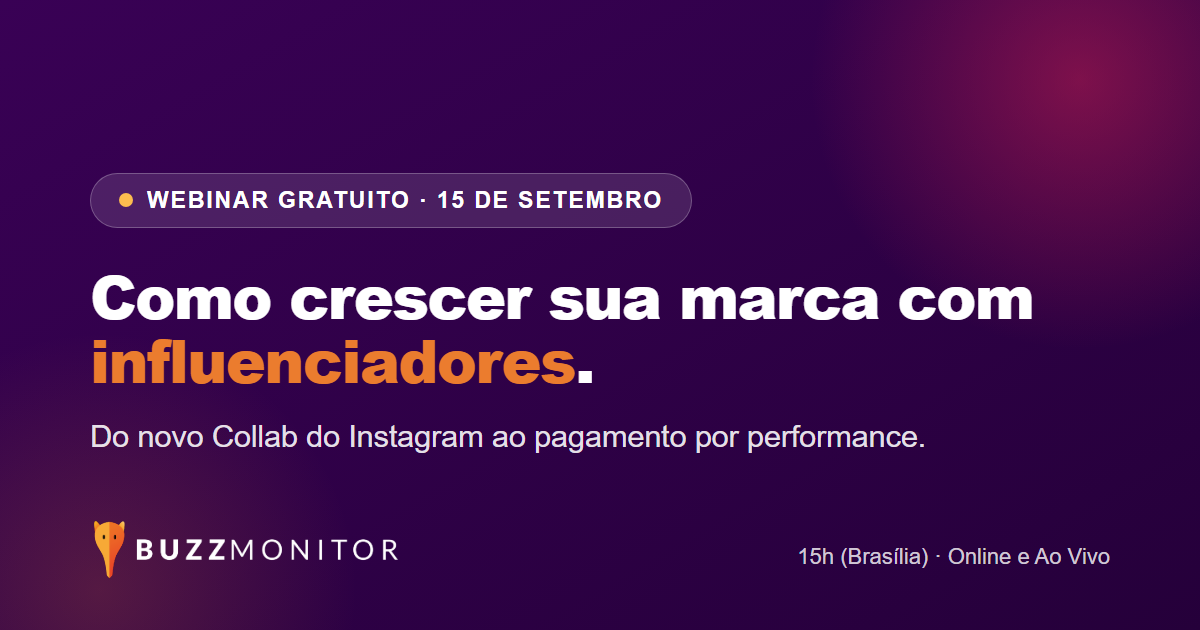
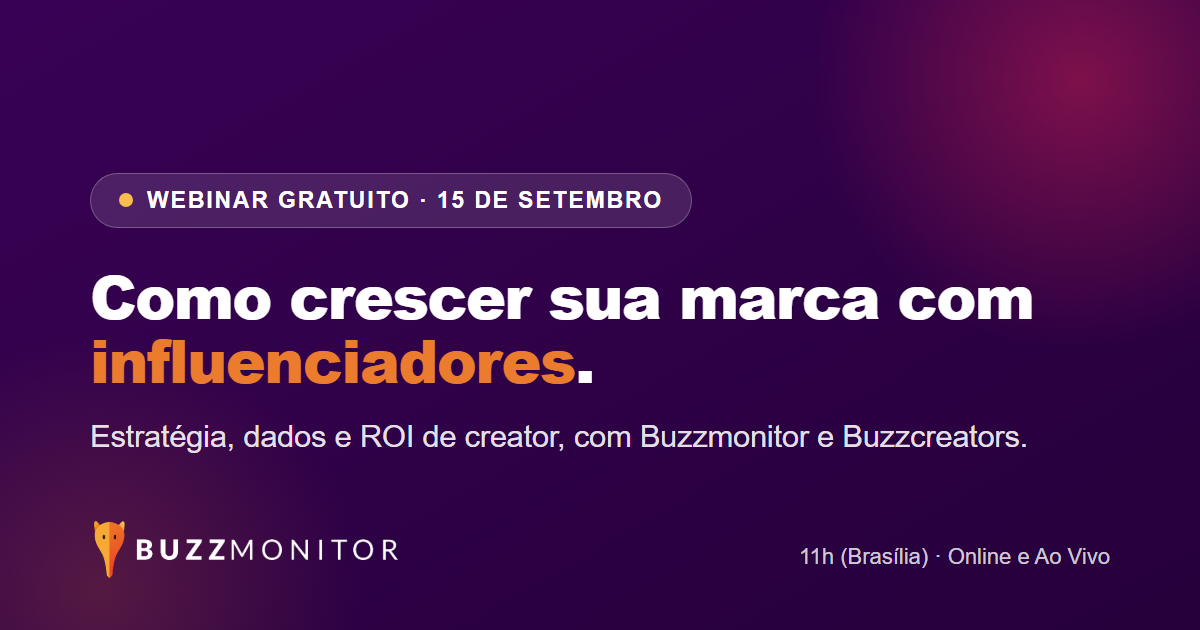
Corrigir horario do webinar na LP crescer-marca-influenciadores para 11h (#312)
Ajusta todas as mencoes de horario (hero, ticket, CTA final, JSON-LD,
meta tags, countdown JS e imagem OG) de 15h para 11h (Brasilia).
Tambem atualiza o subtitulo da imagem OG, que ainda trazia a frase
"Do novo Collab do Instagram ao pagamento por performance", removida
do hero em uma rodada anterior.

Changed region(s): [[0.0617, 0.6635, 0.8633, 0.7238], [0.6475, 0.8746, 0.7092, 0.9048]]

diff --git a/landing-pages/buzzmonitor/crescer-marca-influenciadores-setembro-2026/index.html b/landing-pages/buzzmonitor/crescer-marca-influenciadores-setembro-2026/index.html
@@ -22,7 +22,7 @@ j=d.createElement(s),dl=l!='dataLayer'?'&l='+l:'';j.async=true;j.src=
 <meta property="og:locale" content="pt_BR" />
 <meta property="og:url" content="https://webinar.buzzmonitor.com/crescer-marca-influenciadores-setembro-2026" />
 <meta property="og:title" content="Como Crescer sua Marca com Influenciadores · Webinar Buzzmonitor + Buzzcreators" />
-<meta property="og:description" content="15 de Setembro · 15h (Brasília) · Online e Ao Vivo. Estratégia, dados e ROI de creator, com Buzzmonitor e Buzzcreators." />
+<meta property="og:description" content="15 de Setembro · 11h (Brasília) · Online e Ao Vivo. Estratégia, dados e ROI de creator, com Buzzmonitor e Buzzcreators." />
 <meta property="og:image" content="https://webinar.buzzmonitor.com/assets/buzzmonitor/og-crescer-marca-influenciadores-setembro-2026.png" />
 <meta property="og:image:width" content="1200" />
 <meta property="og:image:height" content="630" />
@@ -30,7 +30,7 @@ j=d.createElement(s),dl=l!='dataLayer'?'&l='+l:'';j.async=true;j.src=
 
 <meta name="twitter:card" content="summary_large_image" />
 <meta name="twitter:title" content="Como Crescer sua Marca com Influenciadores · Webinar Buzzmonitor + Buzzcreators" />
-<meta name="twitter:description" content="15 de Setembro · 15h (Brasília) · Online e Ao Vivo. Estratégia, dados e ROI de creator, com Buzzmonitor e Buzzcreators." />
+<meta name="twitter:description" content="15 de Setembro · 11h (Brasília) · Online e Ao Vivo. Estratégia, dados e ROI de creator, com Buzzmonitor e Buzzcreators." />
 <meta name="twitter:image" content="https://webinar.buzzmonitor.com/assets/buzzmonitor/og-crescer-marca-influenciadores-setembro-2026.png" />
 
 <meta name="theme-color" content="#ffffff" />
@@ -41,7 +41,7 @@ j=d.createElement(s),dl=l!='dataLayer'?'&l='+l:'';j.async=true;j.src=
   "@graph": [
     { "@type": "Organization", "@id": "https://buzzmonitor.com/#organization", "name": "Buzzmonitor", "url": "https://buzzmonitor.com/", "logo": "https://webinar.buzzmonitor.com/assets/buzzmonitor/logos/logo-primary.png", "sameAs": ["https://www.linkedin.com/company/buzzmonitor/", "https://www.instagram.com/buzzmonitorbr/"] },
     { "@type": "WebPage", "@id": "https://webinar.buzzmonitor.com/crescer-marca-influenciadores-setembro-2026#webpage", "name": "Como Crescer sua Marca com Influenciadores · Webinar Buzzmonitor + Buzzcreators", "url": "https://webinar.buzzmonitor.com/crescer-marca-influenciadores-setembro-2026", "inLanguage": "pt-BR", "isPartOf": { "@id": "https://buzzmonitor.com/#organization" }, "description": "Webinar gratuito: como crescer marca com influenciadores, com Buzzmonitor e Buzzcreators." },
-    { "@type": "Event", "name": "Como Crescer sua Marca com Influenciadores · Webinar Buzzmonitor + Buzzcreators", "startDate": "2026-09-15T15:00:00-03:00", "endDate": "2026-09-15T16:00:00-03:00", "eventAttendanceMode": "https://schema.org/OnlineEventAttendanceMode", "eventStatus": "https://schema.org/EventScheduled", "inLanguage": "pt-BR", "location": { "@type": "VirtualLocation", "url": "https://webinar.buzzmonitor.com/crescer-marca-influenciadores-setembro-2026" }, "image": "https://webinar.buzzmonitor.com/assets/buzzmonitor/og-crescer-marca-influenciadores-setembro-2026.png", "description": "Como estruturar o crescimento de marca com influenciadores, com Buzzmonitor e Buzzcreators.", "organizer": { "@id": "https://buzzmonitor.com/#organization" }, "performer": { "@type": "Person", "name": "Bruno Filho" } }
+    { "@type": "Event", "name": "Como Crescer sua Marca com Influenciadores · Webinar Buzzmonitor + Buzzcreators", "startDate": "2026-09-15T11:00:00-03:00", "endDate": "2026-09-15T12:00:00-03:00", "eventAttendanceMode": "https://schema.org/OnlineEventAttendanceMode", "eventStatus": "https://schema.org/EventScheduled", "inLanguage": "pt-BR", "location": { "@type": "VirtualLocation", "url": "https://webinar.buzzmonitor.com/crescer-marca-influenciadores-setembro-2026" }, "image": "https://webinar.buzzmonitor.com/assets/buzzmonitor/og-crescer-marca-influenciadores-setembro-2026.png", "description": "Como estruturar o crescimento de marca com influenciadores, com Buzzmonitor e Buzzcreators.", "organizer": { "@id": "https://buzzmonitor.com/#organization" }, "performer": { "@type": "Person", "name": "Bruno Filho" } }
   ]
 }
 </script>
@@ -549,7 +549,7 @@ height="0" width="0" style="display:none;visibility:hidden"></iframe></noscript>
           </a>
         </div>
         <p class="hero-times" aria-label="Horário do evento">
-          <b>15h</b>&nbsp;(Brasília) <span style="color:var(--c-n300)">·</span> Online e Ao Vivo
+          <b>11h</b>&nbsp;(Brasília) <span style="color:var(--c-n300)">·</span> Online e Ao Vivo
         </p>
       </div>
 
@@ -565,7 +565,7 @@ height="0" width="0" style="display:none;visibility:hidden"></iframe></noscript>
           <div class="ticket-label">Save the date</div>
           <div class="ticket-date">
             15&nbsp;<span class="slash">SET</span>
-            <small>Terça-feira &middot; 15h (Brasília)</small>
+            <small>Terça-feira &middot; 11h (Brasília)</small>
           </div>
           <dl class="ticket-rows">
             <div><dt>Formato</dt><dd>Online &middot; Ao vivo</dd></div>
@@ -891,7 +891,7 @@ height="0" width="0" style="display:none;visibility:hidden"></iframe></noscript>
     <div class="wrap final-grid">
       <div class="reveal">
         <h2 id="final-title">Nos vemos no dia 15 de Setembro.</h2>
-        <p class="when"><b>15h</b> &middot; Online e Ao Vivo</p>
+        <p class="when"><b>11h</b> &middot; Online e Ao Vivo</p>
         <div class="perks">
           <div class="perk"><span class="perk-dot"></span>Webinar 100% gratuito</div>
           <div class="perk"><span class="perk-dot"></span>60 minutos de palestra com Q&amp;A ao vivo</div>
@@ -951,7 +951,7 @@ height="0" width="0" style="display:none;visibility:hidden"></iframe></noscript>
     var widgets = document.querySelectorAll('.js-countdown');
     if (!widgets.length) return;
     var prefersReduced = window.matchMedia('(prefers-reduced-motion: reduce)').matches;
-    var target = new Date('2026-09-15T15:00:00-03:00').getTime();
+    var target = new Date('2026-09-15T11:00:00-03:00').getTime();
     var timer;
     function pad(n) { return String(n).padStart(2, '0'); }
     function tick() {

diff --git a/landing-pages/buzzmonitor/crescer-marca-influenciadores-setembro-2026/assets/og-source.html b/landing-pages/buzzmonitor/crescer-marca-influenciadores-setembro-2026/assets/og-source.html
@@ -46,8 +46,8 @@
   <span class="glow2"></span>
   <div class="overline"><span class="dot"></span>Webinar gratuito &middot; 15 de Setembro</div>
   <div class="h1">Como crescer sua marca com <span class="hl">influenciadores</span>.</div>
-  <div class="sub">Do novo Collab do Instagram ao pagamento por performance.</div>
+  <div class="sub">Estratégia, dados e ROI de creator, com Buzzmonitor e Buzzcreators.</div>
   <div class="brand"><img src="../../../../brand/buzzmonitor/assets/logos/logo-reversed.svg" alt=""></div>
-  <div class="tag">15h (Brasília) &middot; Online e Ao Vivo</div>
+  <div class="tag">11h (Brasília) &middot; Online e Ao Vivo</div>
 </body>
 </html>
